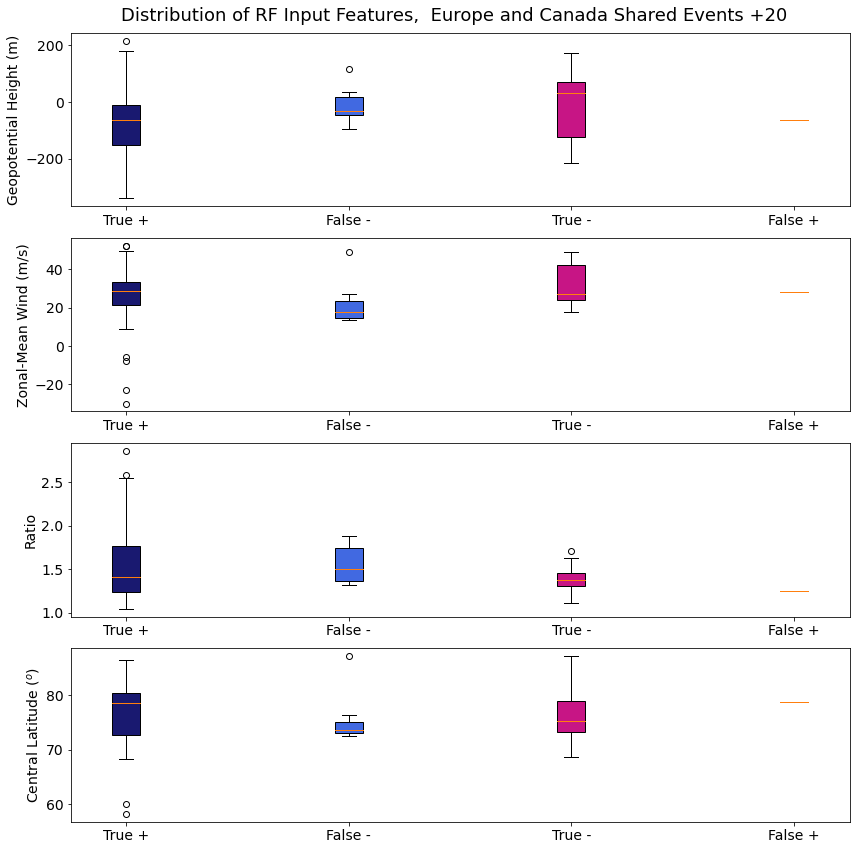
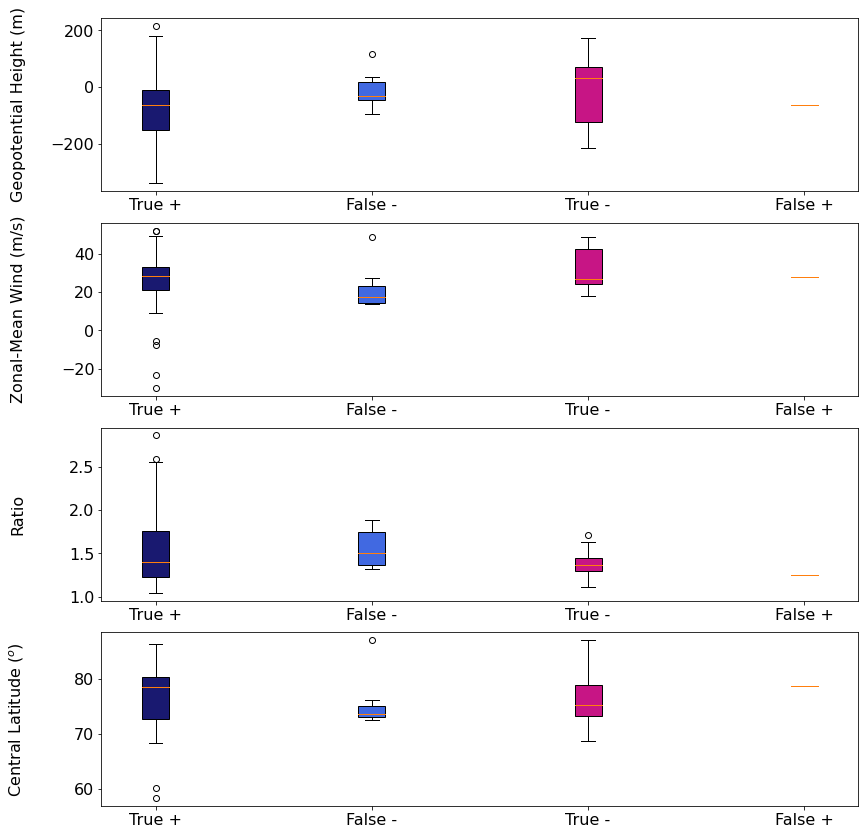
Update shared date plots

diff --git a/leadtimes/date_compare/.ipynb_checkpoints/Modified_PredictionPlots-checkpoint.py b/leadtimes/date_compare/.ipynb_checkpoints/Modified_PredictionPlots-checkpoint.py
@@ -344,26 +344,28 @@ def BWplot(Tpos,Tneg,Fpos,Fneg,metrics_list,loc_str,save_str):
     ind = [2, 4, 6, 8]  # the x locations for the groups
     w = 0.25 #box-plot width
     c = ["midnightblue","royalblue","mediumvioletred","magenta"]
-    fs = 14
+    fs = 20
 
     fig, axes = plt.subplots(4, 1, figsize=(12, 12))
-    plt.suptitle("Distribution of RF Input Features, "+str(loc_str), fontsize = 18, x=0.53)
+    #plt.suptitle("Distribution of RF Input Features, "+str(loc_str), fontsize = 22, x=0.53)
     axes = axes.flatten()
     for i in range(0,4):
         C_pos = Tpos[:,i]
         F_neg = Fneg[:,i]
         C_neg = Tneg[:,i]
         F_pos = Fpos[:,i]
-
-        a1 =axes[i].boxplot([C_pos,F_neg,C_neg,F_pos], positions= [2,4,6,8], widths=w, patch_artist=True)
-        for bplot in (a1,):
-            for patch, color in zip(bplot['boxes'], c):
-                patch.set_facecolor(color)
-                
+    
+        a1 = axes[i].boxplot([C_pos, F_neg, C_neg, F_pos], positions=[2,4,6,8], widths=w, patch_artist=True)
+    
+        for patch, color in zip(a1['boxes'], c):
+            patch.set_facecolor(color)
+    
         axes[i].set_xticks(ind)
         axes[i].set_xticklabels(ticks)
-        axes[i].set_ylabel(str(metrics[i]), fontsize=14)
-        axes[i].tick_params(axis='both', labelsize=14)
+        #axes[i].set_ylabel(str(metrics[i]), fontsize=22, fontweight = 'bold')
+        axes[i].set_ylabel(str(metrics[i]), fontsize=16)
+        axes[i].yaxis.set_label_coords(-0.1, 0.5)
+        axes[i].tick_params(axis='both', labelsize=16)
 
     plt.tight_layout()
     plt.subplots_adjust(top=0.95)   

diff --git a/leadtimes/date_compare/Modified_PredictionPlots.py b/leadtimes/date_compare/Modified_PredictionPlots.py
@@ -344,26 +344,28 @@ def BWplot(Tpos,Tneg,Fpos,Fneg,metrics_list,loc_str,save_str):
     ind = [2, 4, 6, 8]  # the x locations for the groups
     w = 0.25 #box-plot width
     c = ["midnightblue","royalblue","mediumvioletred","magenta"]
-    fs = 14
+    fs = 20
 
     fig, axes = plt.subplots(4, 1, figsize=(12, 12))
-    plt.suptitle("Distribution of RF Input Features, "+str(loc_str), fontsize = 18, x=0.53)
+    #plt.suptitle("Distribution of RF Input Features, "+str(loc_str), fontsize = 22, x=0.53)
     axes = axes.flatten()
     for i in range(0,4):
         C_pos = Tpos[:,i]
         F_neg = Fneg[:,i]
         C_neg = Tneg[:,i]
         F_pos = Fpos[:,i]
-
-        a1 =axes[i].boxplot([C_pos,F_neg,C_neg,F_pos], positions= [2,4,6,8], widths=w, patch_artist=True)
-        for bplot in (a1,):
-            for patch, color in zip(bplot['boxes'], c):
-                patch.set_facecolor(color)
-                
+    
+        a1 = axes[i].boxplot([C_pos, F_neg, C_neg, F_pos], positions=[2,4,6,8], widths=w, patch_artist=True)
+    
+        for patch, color in zip(a1['boxes'], c):
+            patch.set_facecolor(color)
+    
         axes[i].set_xticks(ind)
         axes[i].set_xticklabels(ticks)
-        axes[i].set_ylabel(str(metrics[i]), fontsize=14)
-        axes[i].tick_params(axis='both', labelsize=14)
+        #axes[i].set_ylabel(str(metrics[i]), fontsize=22, fontweight = 'bold')
+        axes[i].set_ylabel(str(metrics[i]), fontsize=16)
+        axes[i].yaxis.set_label_coords(-0.1, 0.5)
+        axes[i].tick_params(axis='both', labelsize=16)
 
     plt.tight_layout()
     plt.subplots_adjust(top=0.95)   
